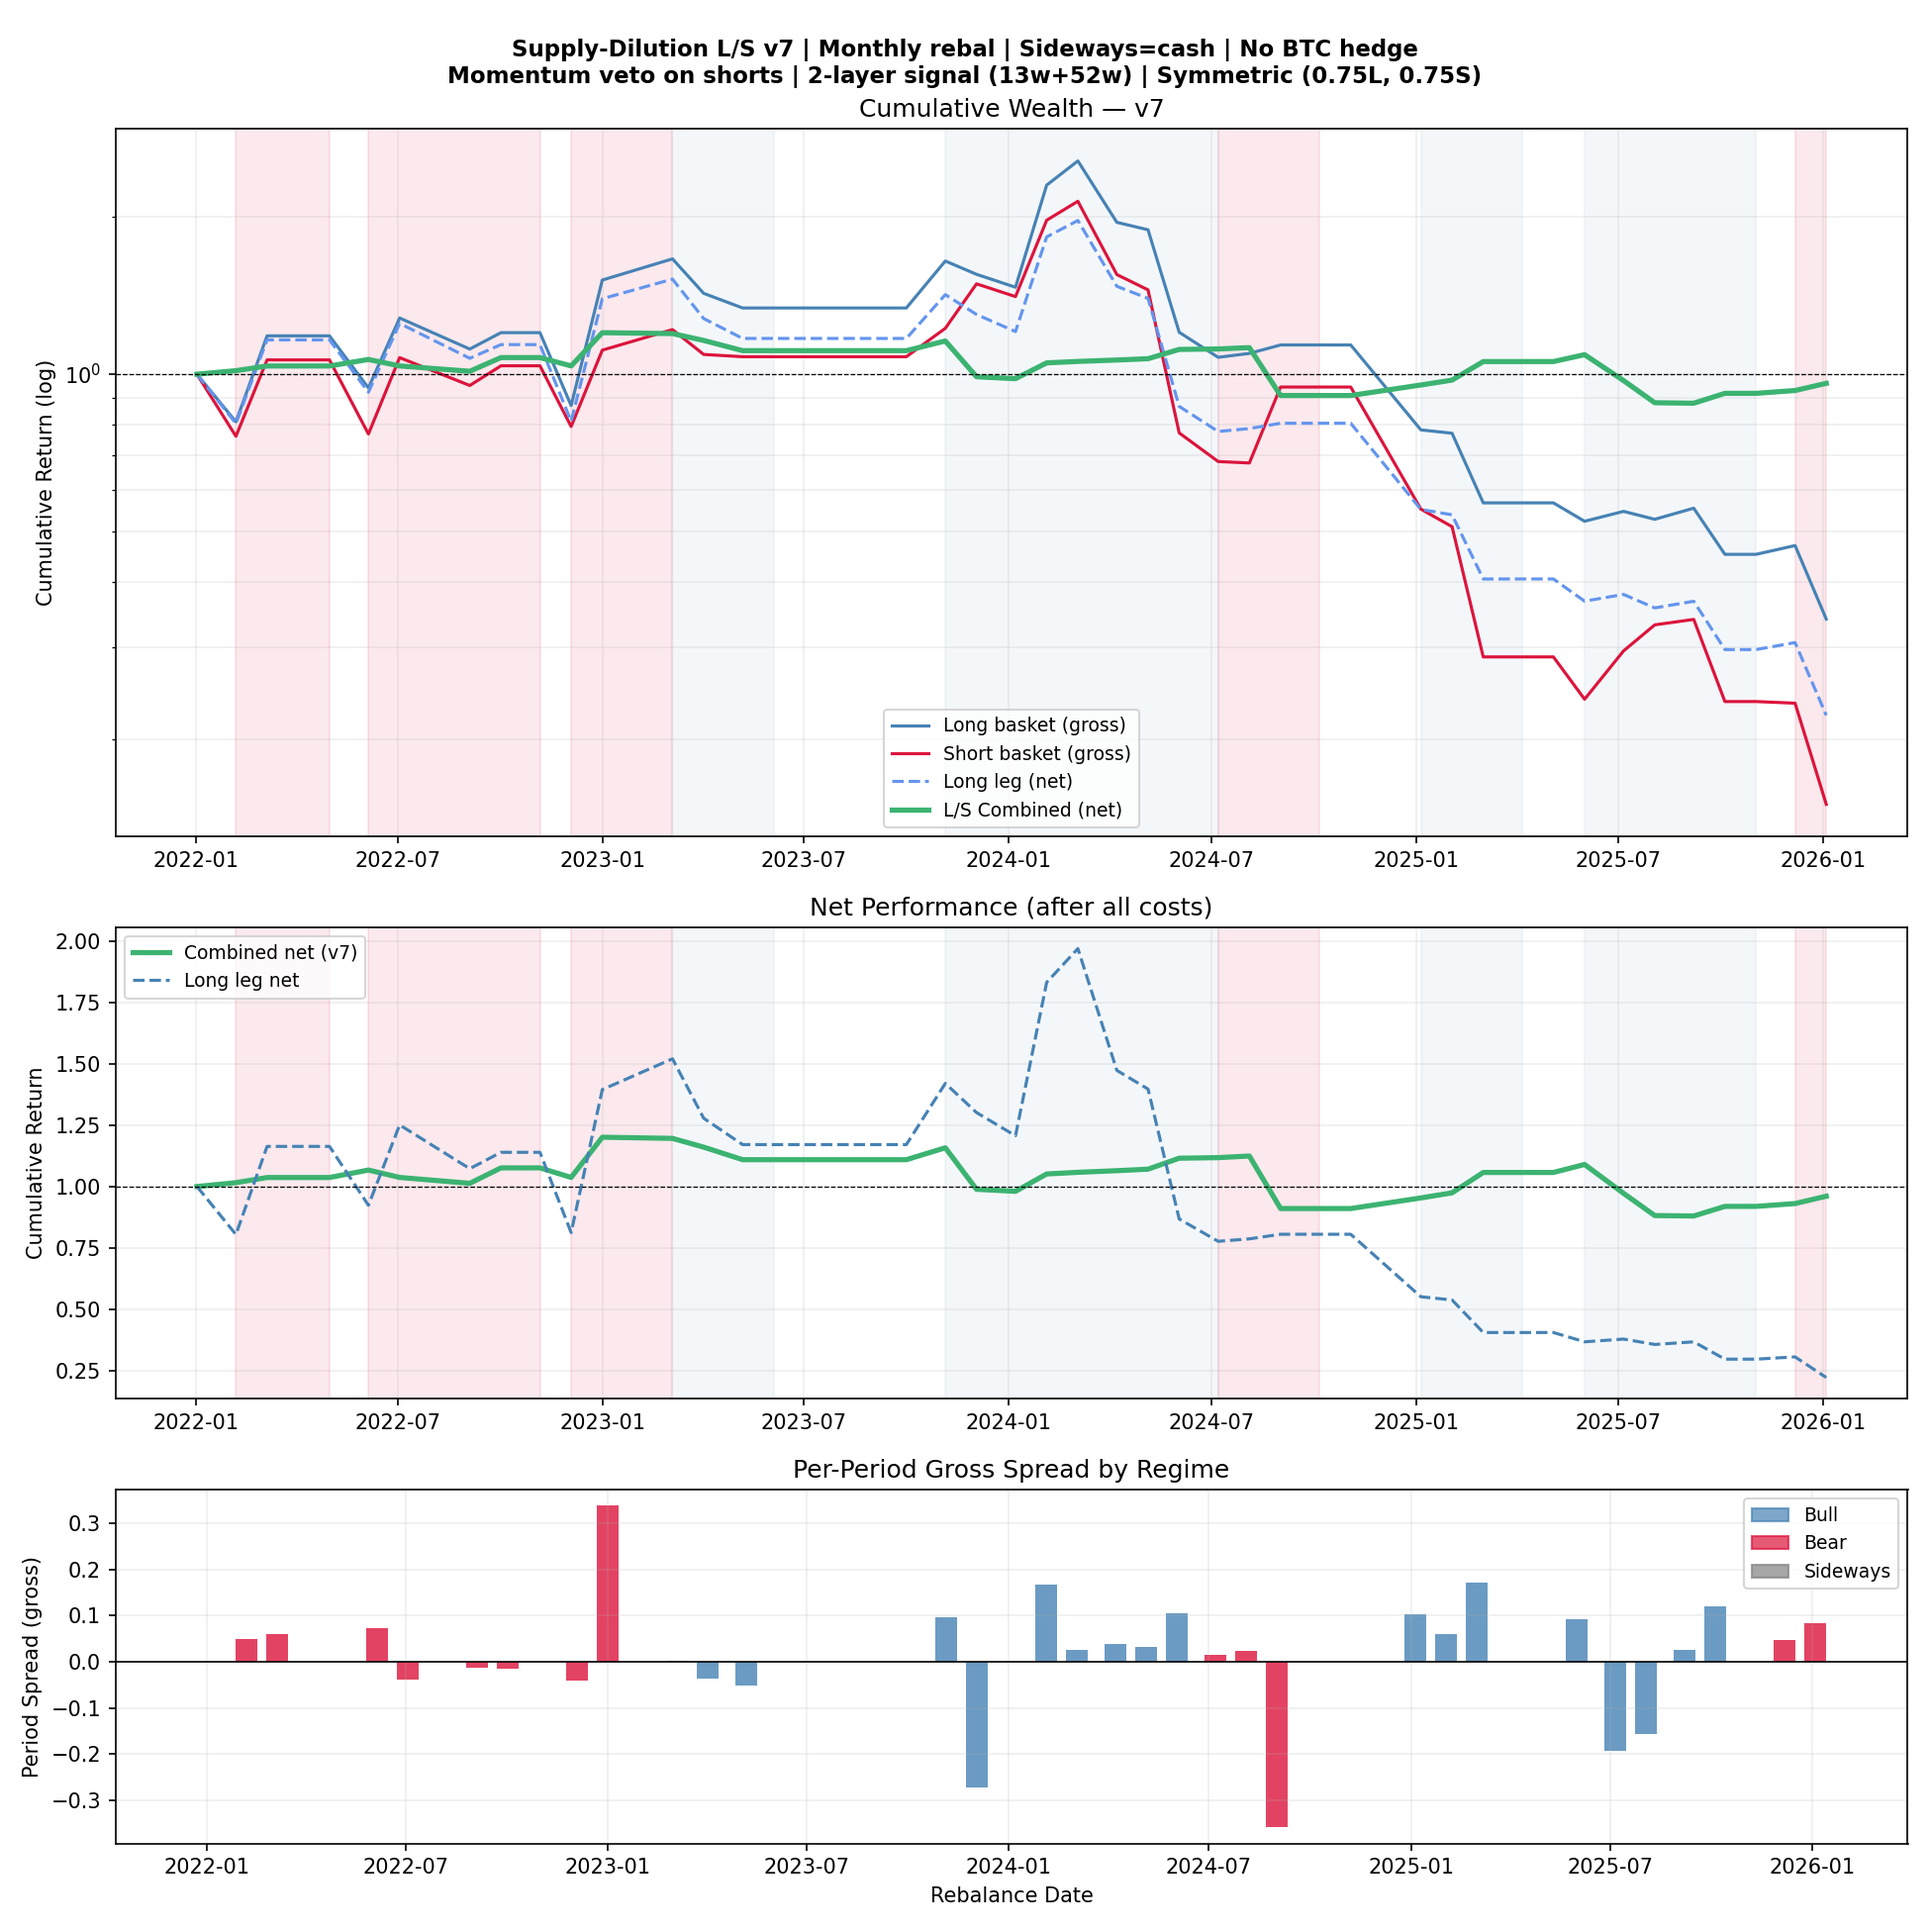
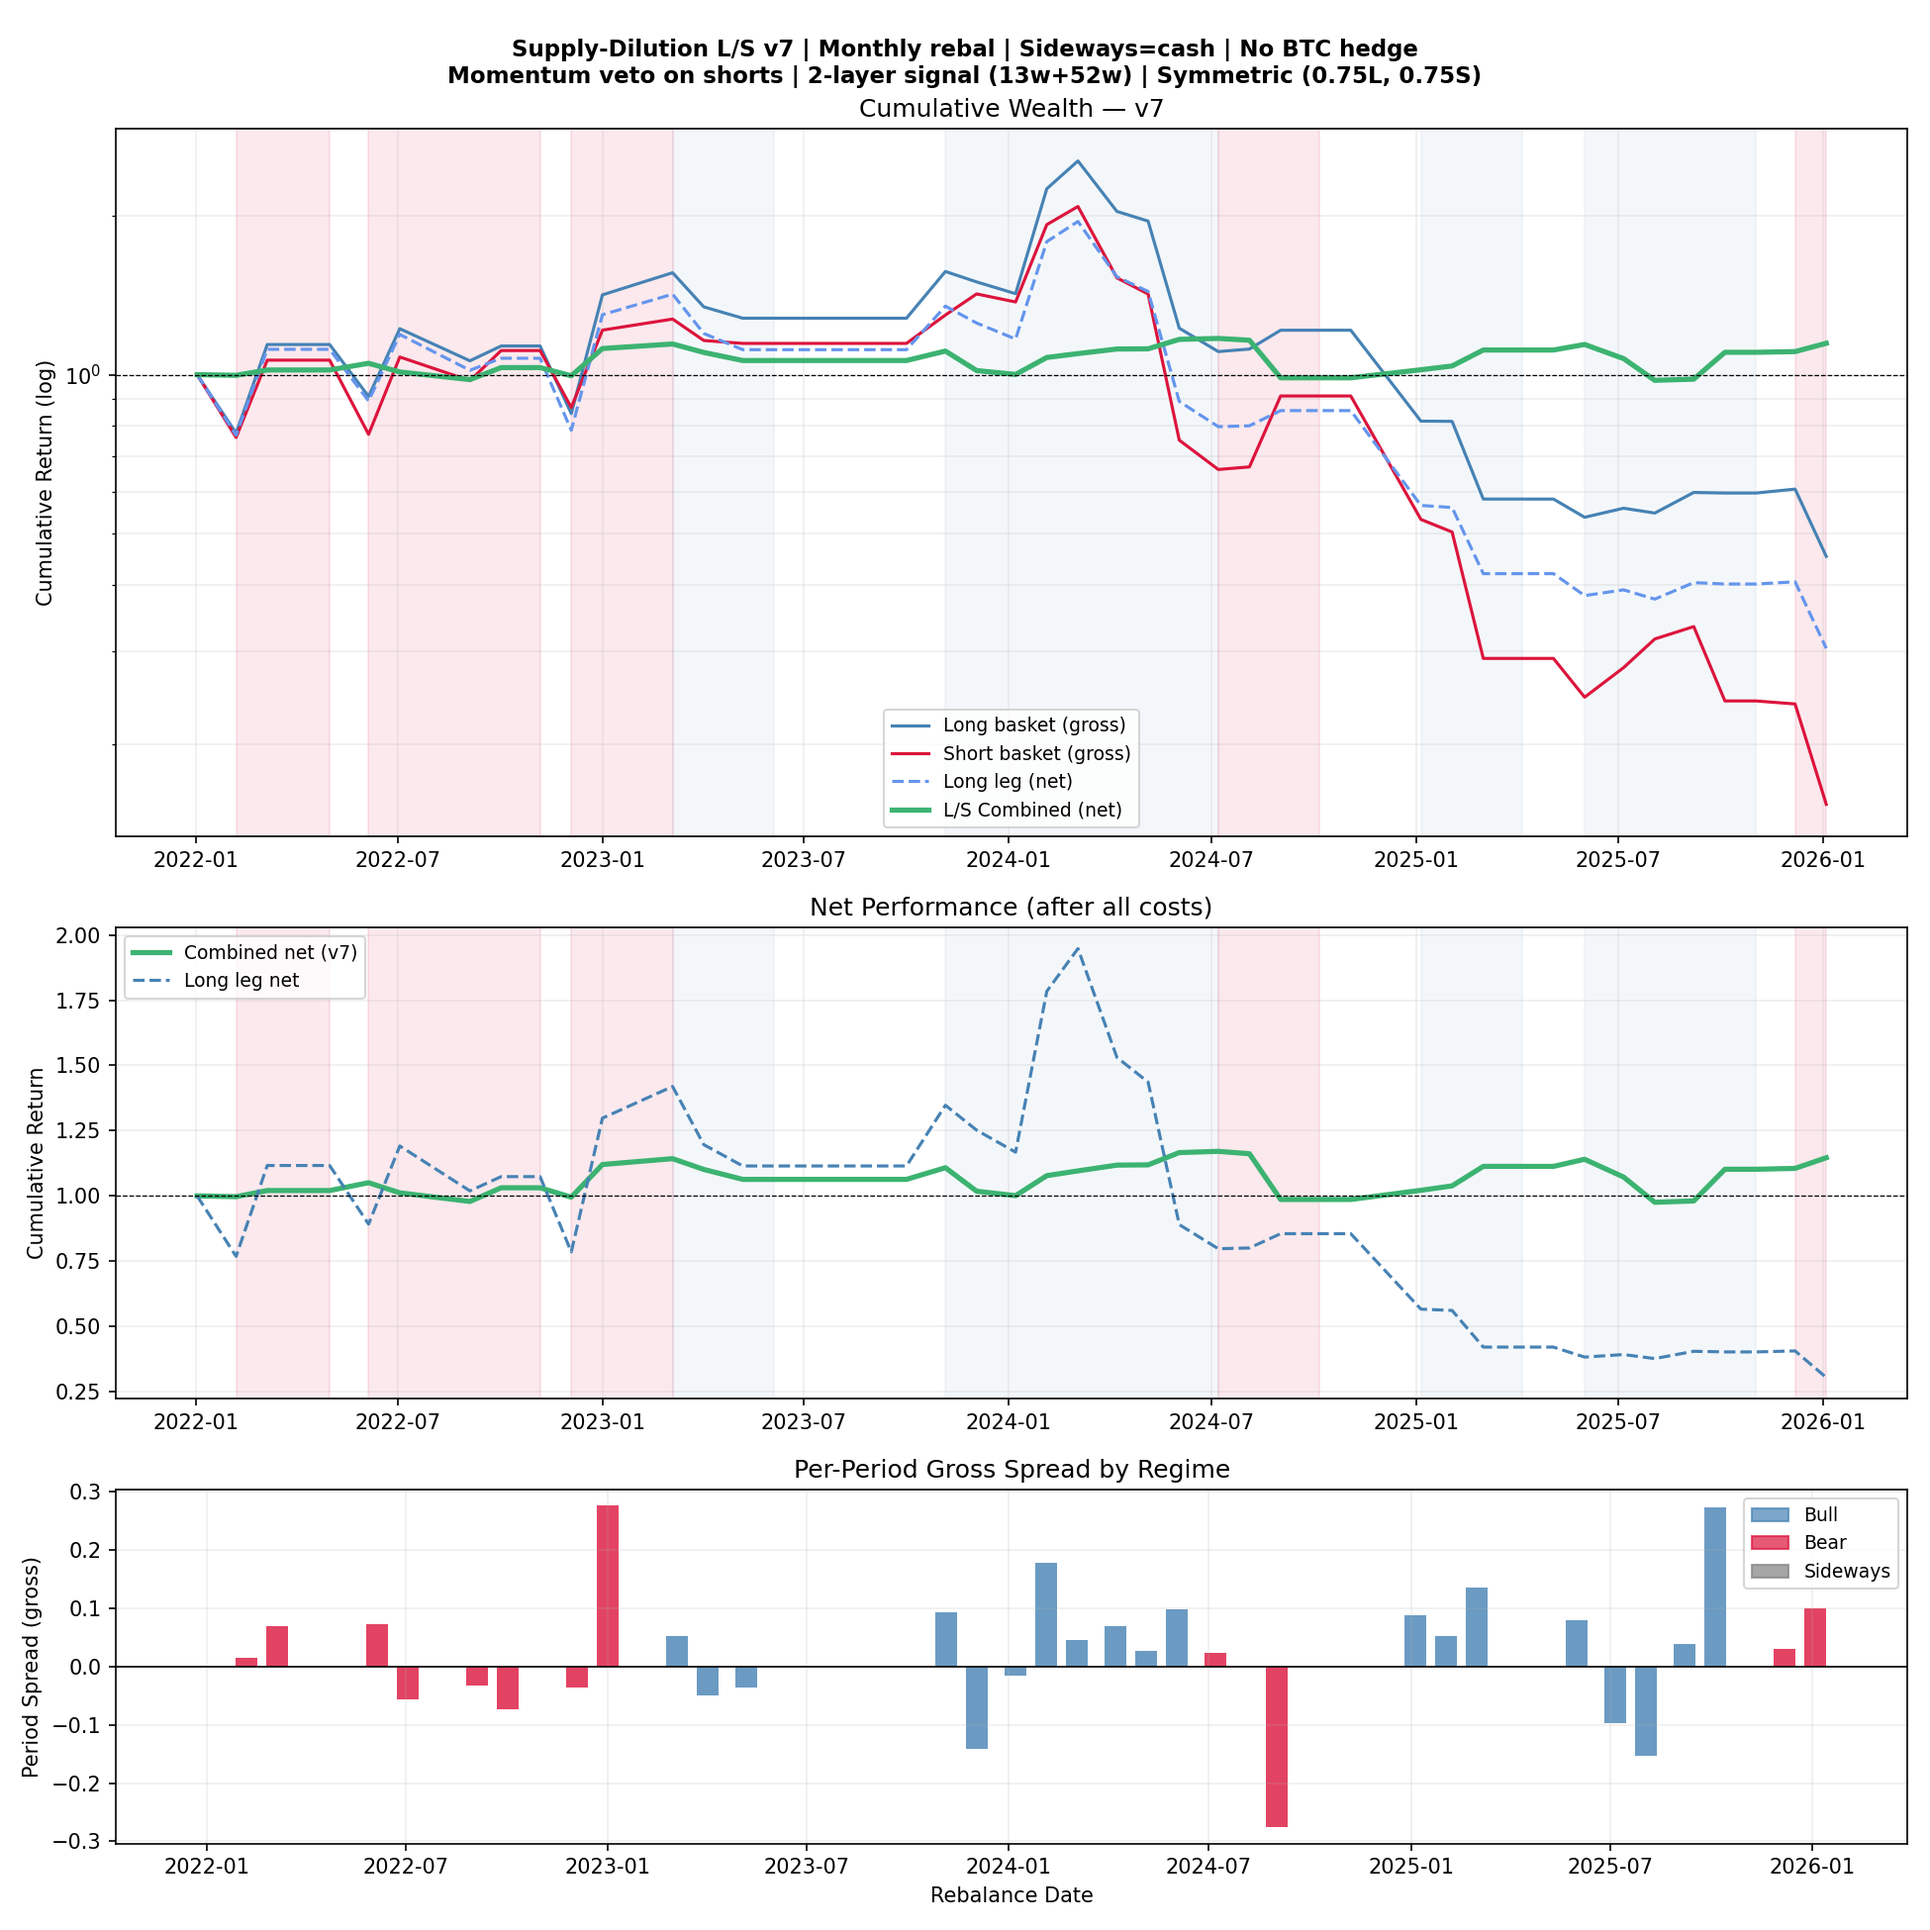
Switch to equal-weight basket sizing; add WEIGHT_SCHEME flag
Equal-weight vs inverse-vol comparison:
  Combined net: -1.0% → +3.5% (+4.5pp improvement)
  MaxDD:       -26.7% → -16.7%
  Sharpe:      -0.050 → +0.200
  HAC Sharpe*: +0.053 → +0.389
  Bull spread: +12.9% → +49.3%

Inv-vol was over-weighting low-vol dying tokens (NEO, THETA) in the
long basket, amplifying the zombie problem in Bull periods. Equal-weight
naturally dilutes each token to 1/N, preventing slow bleeders from
dominating the long leg P&L. Also reduces long funding drag from
-10.34% to -8.13% cumulative (less concentrated in high-funding tokens).

diff --git a/perpetual_ls_v7.py b/perpetual_ls_v7.py
@@ -103,6 +103,7 @@ SHORT_ENTRY_PCT      = 0.88
 SHORT_EXIT_PCT       = 0.82
 MIN_BASKET_SIZE      = 6
 ADTV_POS_CAP         = 0.20
+WEIGHT_SCHEME        = "equal"   # "inv_vol" | "equal"
 TOKEN_VOL_WINDOW     = 8
 
 # Execution
@@ -706,7 +707,10 @@ def run_backtest(df: pd.DataFrame, regime_df: pd.DataFrame,
                       for s in syms}
             adtv_m = {s: float(adtv_row.get(s, 0)  if pd.notna(adtv_row.get(s))  else 0.0)
                       for s in syms}
-            w      = inv_vol_adtv_weights(syms, vol_m, adtv_m)
+            if WEIGHT_SCHEME == "equal":
+                n = len(syms); w = {s: 1/n for s in syms}
+            else:
+                w = inv_vol_adtv_weights(syms, vol_m, adtv_m)
             ret    = sum(w[s] * float(fwd[s]) for s in syms)
             slip   = sum(w[s] * float(sl_row.get(s, MAX_SLIPPAGE) or MAX_SLIPPAGE)
                          for s in syms)
